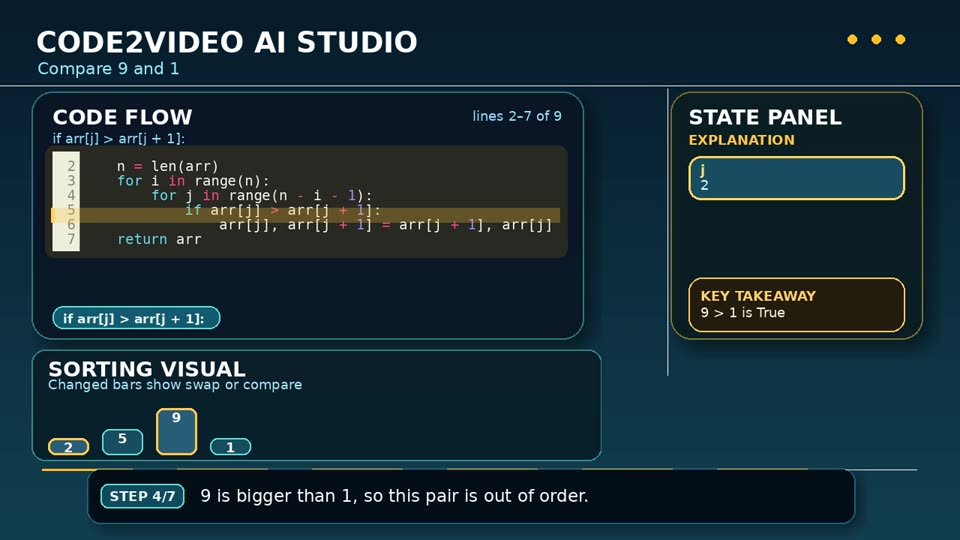
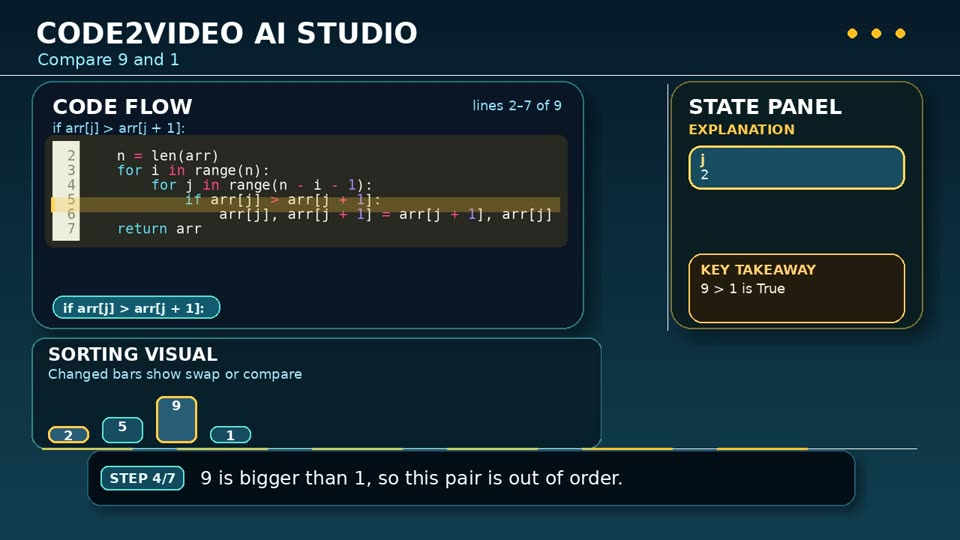
Production-grade video: fixed visuals, takeaways, bigger code, safer subtitles

diff --git a/code2video-ai-studio-main/app.py b/code2video-ai-studio-main/app.py
@@ -711,6 +711,7 @@ def _load_font(size=24, bold=False, language="english"):
 
     return ImageFont.load_default()
 
+FONT_PT = _load_font(24, bold=True)
 FONT_XL = _load_font(38, bold=True)
 FONT_LG = _load_font(28, bold=True)
 FONT_MD = _load_font(22, bold=False)
@@ -1113,6 +1114,25 @@ def _extract_menu_lines_from_code(full_code):
     return cleaned[:4]
 
 
+def _has_recursion(code):
+    """True only if a function really calls itself (a call from outside its body does not count)."""
+    code = str(code or "")
+    try:
+        tree = ast.parse(code)
+    except Exception:
+        tree = None
+    if tree is not None:
+        for fn in ast.walk(tree):
+            if isinstance(fn, (ast.FunctionDef, ast.AsyncFunctionDef)):
+                for node in ast.walk(fn):
+                    if isinstance(node, ast.Call):
+                        f = node.func
+                        if (isinstance(f, ast.Name) and f.id == fn.name) or (isinstance(f, ast.Attribute) and f.attr == fn.name and isinstance(f.value, ast.Name) and f.value.id == "self"):
+                            return True
+        return False
+    return False
+
+
 def _detect_algorithm(full_code, scene_type, variables):
     code_lower = str(full_code or "").lower()
     scene_lower = str(scene_type or "").lower()
@@ -1136,13 +1156,8 @@ def _detect_algorithm(full_code, scene_type, variables):
     if "stack" in code_lower or "stack" in scene_lower:
         return "stack"
 
-    fn_names = re.findall(r"def\s+([a-zA-Z_]\w*)\s*\(", code_lower)
-    for fn in fn_names:
-        start = code_lower.find(f"def {fn}")
-        if start != -1:
-            body = code_lower[start:].replace(f"def {fn}", "", 1)
-            if re.search(rf"\b{re.escape(fn)}\s*\(", body):
-                return "recursion"
+    if _has_recursion(full_code):
+        return "recursion"
 
     if "for " in code_lower or "while " in code_lower or "loop" in scene_lower:
         return "loop"
@@ -1363,21 +1378,23 @@ def _build_background(scene_title, output_path):
     img = _create_gradient_background(VIDEO_W, VIDEO_H)
     draw = ImageDraw.Draw(img)
 
-    draw.text((48, 34), "CODE2VIDEO AI STUDIO", font=FONT_XL, fill=(255, 255, 255))
-    draw.text((50, 78), scene_title[:48], font=FONT_MD, fill=(153, 238, 255))
+    draw.text((48, 22), "CODE2VIDEO AI STUDIO", font=FONT_XL, fill=(255, 255, 255))
+    draw.text((50, 66), scene_title[:48], font=FONT_MD, fill=(153, 238, 255))
 
-    draw.line((0, 114, VIDEO_W, 114), fill=(255, 255, 255, 35), width=1)
-    draw.line((890, 118, 890, 500), fill=(255, 255, 255, 24), width=1)
-    draw.line((58, 626, 1222, 626), fill=(255, 255, 255, 18), width=1)
+    draw.line((0, 100, VIDEO_W, 100), fill=(255, 255, 255, 35), width=1)
+    draw.line((890, 112, 890, 440), fill=(255, 255, 255, 24), width=1)
+    draw.line((58, 598, 1222, 598), fill=(255, 255, 255, 18), width=1)
 
     for x in [VIDEO_W - 150, VIDEO_W - 118, VIDEO_W - 86]:
-        draw.ellipse((x, 46, x + 12, 58), fill=(255, 191, 36))
+        draw.ellipse((x, 38, x + 12, 50), fill=(255, 191, 36))
 
     for i in range(6):
-        draw.line((56 + i * 180, 626, 56 + i * 180 + 120, 626), fill=(255, 191, 36), width=3)
+        draw.line((56 + i * 180, 598, 56 + i * 180 + 120, 598), fill=(255, 191, 36), width=3)
 
     img.save(output_path)
 
+
+POS_CODE, POS_VARS, POS_CONCEPT, POS_SUB = (42, 108), (894, 108), (42, 450), (116, 600)
 
 _CODE_METRICS = {}
 
@@ -1444,9 +1461,16 @@ def _build_code_overlay(full_code, active_line, focus_text, output_path):
     draw.text((28, 18), "CODE FLOW", font=FONT_LG, fill=(255, 255, 255))
     draw.text((28, 52), short_focus, font=FONT_SM, fill=(150, 226, 255))
 
-    font_size = 23
-    step, pad = _code_metrics(font_size)
     max_w, area_h = 676, 196
+    longest = max((len(l.expandtabs(4)) for l in all_lines), default=1)
+    want = min(total, 6)
+    font_size = 23
+    for fs in (31, 28, 26, 24):
+        st, pd = _code_metrics(fs)
+        if want * st + 2 * pd <= area_h and (longest + 5) * fs * 0.6 <= max_w:
+            font_size = fs
+            break
+    step, pad = _code_metrics(font_size)
     max_lines = max(4, min(8, (area_h - 2 * pad) // step))
 
     # show a window of lines around the active line instead of shrinking the whole program
@@ -1492,7 +1516,32 @@ def _build_code_overlay(full_code, active_line, focus_text, output_path):
     panel.save(output_path)
 
 
-def _build_vars_overlay(variables, scene_type, output_text, changed_keys, output_path):
+_GENERIC_TAKEAWAYS = {"", "none", "null", "program state updated.", "program state updated", "the program continues logically.",
+                      "the program continues logically", "program continues", "continues", "no output", "program produced output."}
+
+
+def _make_takeaway(output_text, focus_text, variables, changed_keys):
+    """A short, specific one-liner for the KEY TAKEAWAY box (never a vague filler sentence)."""
+    text = " ".join(str(output_text or "").split())
+    if text.lower() not in _GENERIC_TAKEAWAYS:
+        return text
+    focus = " ".join(str(focus_text or "").split())
+    m = re.match(r"def\s+(\w+)\s*\(([^)]*)\)", focus)
+    if m:
+        params = ", ".join(p.strip() for p in m.group(2).split(",") if p.strip())
+        return f"Defines {m.group(1)}({params}); it runs only when called"
+    m = re.match(r"class\s+(\w+)", focus)
+    if m:
+        return f"Defines the class {m.group(1)}"
+    items = [(k, v) for k, v in variables.items() if k in changed_keys and not _is_emptyish(v)][:2]
+    if items:
+        return ", ".join(f"{k} = {_safe_repr(v, 14)}" for k, v in items)
+    if focus:
+        return _short_focus_label(focus)
+    return "Moving on to the next step"
+
+
+def _build_vars_overlay(variables, scene_type, output_text, changed_keys, output_path, focus_text=""):
     panel = Image.new("RGBA", (360, 355), (0, 0, 0, 0))
     draw = ImageDraw.Draw(panel)
 
@@ -1540,17 +1589,20 @@ def _build_vars_overlay(variables, scene_type, output_text, changed_keys, output
             draw.text((40, y + 28 + idx * 15), line, font=FONT_VAR, fill=(236, 255, 255))
         y += 66
 
-    takeaway = output_text if str(output_text).strip().lower() not in {"", "none", "null"} else "Program state updated."
+    takeaway = _make_takeaway(output_text, focus_text, variables, changed_keys)
 
     if "found" in str(output_text).lower():
         result_idx = _extract_result_value(variables, output_text, "")
         takeaway = f"Target found at index {result_idx}" if result_idx is not None else "Target found successfully"
 
-    _rounded_box(draw, (24, 248, 312, 320), fill=(36, 25, 8, 230), outline=(255, 199, 90), width=2, radius=18)
-    draw.text((40, 262), "KEY TAKEAWAY", font=FONT_BADGE, fill=(255, 208, 112))
-    out_lines = _wrap_text(takeaway, FONT_SM, 240, draw)
-    for idx, line in enumerate(out_lines[:2]):
-        draw.text((40, 284 + idx * 16), line, font=FONT_SM, fill=(255, 246, 225))
+    _rounded_box(draw, (24, 230, 312, 322), fill=(36, 25, 8, 230), outline=(255, 199, 90), width=2, radius=18)
+    draw.text((40, 241), "KEY TAKEAWAY", font=FONT_BADGE, fill=(255, 208, 112))
+    out_lines = _wrap_text(takeaway, FONT_SM, 250, draw)
+    if len(out_lines) > 3:
+        out_lines = out_lines[:3]
+        out_lines[2] = out_lines[2].rstrip(".,;: ") + "\u2026"
+    for idx, line in enumerate(out_lines):
+        draw.text((40, 266 + idx * 19), line, font=FONT_SM, fill=(255, 246, 225))
 
     panel.save(output_path)
 
@@ -1599,9 +1651,9 @@ def _wrap_mixed(text, indic_font, latin_font, max_width, draw):
 def _build_subtitle_overlay(narration, step_no, total_steps, output_path, language="english"):
     simple = _simplify_subtitle(narration)
 
-    subtitle_font = _load_font(23, bold=False, language=language)
+    subtitle_font = _load_font(24, bold=False, language=language)
     badge_font = _load_font(18, bold=True, language="english")
-    latin_font = _load_font(23, bold=False, language="english")
+    latin_font = _load_font(24, bold=False, language="english")
 
     panel = Image.new("RGBA", (1040, 92), (0, 0, 0, 0))
     draw = ImageDraw.Draw(panel)
@@ -1627,7 +1679,7 @@ def _build_subtitle_overlay(narration, step_no, total_steps, output_path, langua
     if len(lines) > 2:
         lines = lines[:2]
         lines[1] = lines[1].rstrip(".,;: ") + "\u2026"
-    line_h = 30
+    line_h = 31
     top = (box_h - line_h * len(lines)) // 2 + 1
     for idx, line in enumerate(lines):
         _draw_mixed(draw, (text_x, top + idx * line_h), line, subtitle_font, latin_font, (255, 255, 255))
@@ -1692,8 +1744,8 @@ def _panel_base(title, subtitle, height=156):
     panel = Image.new("RGBA", (760, height), (0, 0, 0, 0))
     draw = ImageDraw.Draw(panel)
     _rounded_box(draw, (0, 0, 760, height - 8), fill=(8, 27, 38, 220), outline=(94, 224, 213, 120), width=2, radius=18)
-    draw.text((22, 10), title, font=FONT_LG, fill=(255, 255, 255))
-    draw.text((22, 36), subtitle, font=FONT_SM, fill=(173, 235, 255))
+    draw.text((22, 8), title, font=FONT_PT, fill=(255, 255, 255))
+    draw.text((22, 38), subtitle, font=FONT_SM, fill=(173, 235, 255))
     return panel, draw
 
 
@@ -1767,35 +1819,36 @@ def _build_loop_progress_overlay(payload, output_path):
 
 
 def _build_print_output_overlay(payload, output_path):
-    panel, draw = _panel_base("OUTPUT CONSOLE", "Program output is shown clearly", height=118)
+    panel, draw = _panel_base("OUTPUT CONSOLE", "What the program prints", height=124)
 
-    _rounded_box(draw, (24, 48, 736, 102), fill=(7, 14, 20, 235), outline=(94, 224, 213), width=2, radius=12)
+    _rounded_box(draw, (24, 62, 736, 112), fill=(7, 14, 20, 235), outline=(94, 224, 213), width=2, radius=12)
     console_text = _safe_repr(payload.get("text", "Program produced output."), 100)
 
     lines = _wrap_text(console_text, FONT_MD, 650, draw)
+    y0 = 74 if len(lines) == 1 else 66
     for idx, line in enumerate(lines[:2]):
-        draw.text((42, 60 + idx * 22), line, font=FONT_MD, fill=(210, 245, 210))
+        draw.text((42, y0 + idx * 22), line, font=FONT_MD, fill=(210, 245, 210))
 
     panel.save(output_path)
 
 
 def _build_waiting_input_overlay(payload, output_path):
-    panel, draw = _panel_base("WAITING FOR INPUT", "Program is waiting for the next user action", height=118)
+    panel, draw = _panel_base("WAITING FOR INPUT", "Program is waiting for the next user action", height=124)
 
     label = payload.get("label", "Waiting for input")
     menu_lines = payload.get("menu_lines", [])[:3]
 
-    _rounded_box(draw, (24, 48, 280, 102), fill=(42, 94, 120, 250), outline=(255, 201, 74), width=3, radius=12)
+    _rounded_box(draw, (24, 62, 280, 112), fill=(42, 94, 120, 250), outline=(255, 201, 74), width=3, radius=12)
     lines = _wrap_text(label, FONT_MD, 210, draw)
     for idx, line in enumerate(lines[:2]):
-        draw.text((40, 60 + idx * 20), line, font=FONT_MD, fill=(255, 255, 255))
+        draw.text((40, 68 + idx * 20), line, font=FONT_MD, fill=(255, 255, 255))
 
     if menu_lines:
         left = 300
-        top = 48
-        _rounded_box(draw, (left, top, 736, 102), fill=(7, 14, 20, 235), outline=(94, 224, 213), width=2, radius=12)
+        top = 62
+        _rounded_box(draw, (left, top, 736, 112), fill=(7, 14, 20, 235), outline=(94, 224, 213), width=2, radius=12)
         for i, line in enumerate(menu_lines[:2]):
-            draw.text((left + 14, top + 8 + i * 20), line[:48], font=FONT_TINY, fill=(210, 245, 210))
+            draw.text((left + 14, top + 6 + i * 20), line[:48], font=FONT_TINY, fill=(210, 245, 210))
 
     panel.save(output_path)
 
@@ -1817,11 +1870,11 @@ def _build_function_call_overlay(payload, output_path):
     panel, draw = _panel_base("FUNCTION CALL", "Execution is entering a function")
     name = payload.get("name", "function")
 
-    _rounded_box(draw, (60, 56, 250, 94), fill=(42, 94, 120, 250), outline=(255, 201, 74), width=3, radius=12)
-    draw.text((86, 68), name[:20], font=FONT_BADGE, fill=(255, 255, 255))
-    draw.line((250, 74, 370, 74), fill=(255, 201, 74), width=3)
-    draw.polygon([(370, 74), (360, 68), (360, 80)], fill=(255, 201, 74))
-    draw.text((392, 64), "entering body", font=FONT_BADGE, fill=(255, 227, 128))
+    _rounded_box(draw, (40, 66, 290, 108), fill=(42, 94, 120, 250), outline=(255, 201, 74), width=3, radius=12)
+    draw.text((58, 76), name[:22], font=FONT_BADGE, fill=(255, 255, 255))
+    draw.line((290, 87, 400, 87), fill=(255, 201, 74), width=3)
+    draw.polygon([(412, 87), (400, 80), (400, 94)], fill=(255, 201, 74))
+    draw.text((428, 77), "entering body", font=FONT_BADGE, fill=(255, 227, 128))
 
     panel.save(output_path)
 
@@ -2203,6 +2256,10 @@ def _fallback_visual_plan(full_code, scene_type, focus_text, output_text, narrat
     if algorithm == "recursion":
         return {"visual_type": "special_recursion", "payload": {}}
 
+    m_def = re.match(r"\s*def\s+(\w+)\s*\(([^)]*)\)", str(focus_text or ""))
+    if m_def:
+        return {"visual_type": "function_def", "payload": {"name": m_def.group(1), "params": [p.strip().split("=")[0].strip() for p in m_def.group(2).split(",") if p.strip()]}}
+
     if _looks_like_return_scene(focus_text, narration, output_text):
         return {
             "visual_type": "function_return",
@@ -2241,8 +2298,51 @@ def _fallback_visual_plan(full_code, scene_type, focus_text, output_text, narrat
     return {"visual_type": "generic_data", "payload": generic_payload}
 
 
+def _visual_fits(visual_type, full_code, variables):
+    """Stop the AI from picking an algorithm visual (e.g. recursion tree) for code that isn't that algorithm."""
+    code = str(full_code or "")
+    low = code.lower()
+    keys = {str(k).lower() for k in (variables or {}).keys()}
+    if visual_type == "special_recursion":
+        return _has_recursion(code)
+    if visual_type == "special_binary_search":
+        return "binary" in low or {"low", "high", "mid"} <= keys or {"left", "right", "mid"} <= keys
+    if visual_type == "special_sorting":
+        return any(w in low for w in ("sort", "swap", "bubble", "insertion", "selection")) or bool(re.search(r"(\w+)\[[^\]]+\]\s*,\s*\1\[[^\]]+\]\s*=", code))
+    if visual_type == "special_stack":
+        return "stack" in low or (".pop(" in low and ".append(" in low)
+    if visual_type == "special_linked_list":
+        return ".next" in low or "class node" in low
+    return True
+
+
+def _build_function_def_overlay(payload, output_path):
+    panel, draw = _panel_base("FUNCTION DEFINED", "Saved now, runs only when called")
+    name = str(payload.get("name", "function"))[:20]
+    params = [p for p in payload.get("params", []) if p][:4]
+    x = 24
+    _rounded_box(draw, (x, 64, x + 170, 108), fill=(42, 94, 120, 250), outline=(255, 201, 74), width=3, radius=12)
+    draw.text((x + 14, 74), f"{name}()", font=FONT_BADGE, fill=(255, 255, 255))
+    draw.line((x + 172, 86, x + 214, 86), fill=(255, 191, 36), width=3)
+    draw.polygon([(x + 214, 79), (x + 214, 93), (x + 226, 86)], fill=(255, 191, 36))
+    px = x + 240
+    if not params:
+        draw.text((px, 74), "takes no inputs", font=FONT_SM, fill=(218, 240, 247))
+    for p in params:
+        w = max(70, int(draw.textlength(p, font=FONT_BADGE)) + 36)
+        _rounded_box(draw, (px, 64, px + w, 108), fill=(24, 78, 99, 240), outline=(94, 224, 213), width=2, radius=12)
+        draw.text((px + 18, 74), p[:12], font=FONT_BADGE, fill=(255, 255, 255))
+        px += w + 12
+    draw.text((24, 118), "parameters are the inputs it will receive", font=FONT_SM, fill=(150, 226, 255))
+    panel.save(output_path)
+
+
 def _build_visual_overlay(visual_type, payload, full_code, curr_vars, prev_vars, output_text, narration, output_path):
     if visual_type == "print_output":
+        payload = dict(payload or {})
+        if str(payload.get("text", "")).strip().lower() in _GENERIC_TAKEAWAYS:
+            generic = str(output_text or "").strip().lower() in _GENERIC_TAKEAWAYS
+            payload["text"] = _extract_print_text(curr_vars, "" if generic else output_text, narration, "", full_code)
         _build_print_output_overlay(payload, output_path)
     elif visual_type == "waiting_input":
         _build_waiting_input_overlay(payload, output_path)
@@ -2260,6 +2360,8 @@ def _build_visual_overlay(visual_type, payload, full_code, curr_vars, prev_vars,
         _build_function_call_overlay(payload, output_path)
     elif visual_type == "conditional_branch":
         _build_conditional_branch_overlay(payload, output_path)
+    elif visual_type == "function_def":
+        _build_function_def_overlay(payload, output_path)
     elif visual_type == "special_binary_search":
         _build_binary_search_overlay(curr_vars, prev_vars, full_code, output_text, narration, output_path)
     elif visual_type == "special_sorting":
@@ -2369,19 +2471,19 @@ def _make_step_clip(
     bg_clip = bg_clip.with_effects([vfx.Resize(lambda t: 1 + 0.006 * t)])
 
     code_clip = ImageClip(code_path).with_duration(safe_duration)
-    code_clip = code_clip.with_position((42, 122))
+    code_clip = code_clip.with_position(POS_CODE)
 
     vars_clip = ImageClip(vars_path).with_duration(safe_duration)
-    vars_clip = vars_clip.with_position((894, 122))
+    vars_clip = vars_clip.with_position(POS_VARS)
 
     layout = _choose_layout(scene_title, visual_type, output_text, narration)
 
     concept_clip = ImageClip(concept_path).with_duration(safe_duration)
     subtitle_clip = ImageClip(subtitle_path).with_duration(safe_duration)
 
-    concept_clip = concept_clip.with_position((42, 466))
+    concept_clip = concept_clip.with_position(POS_CONCEPT)
 
-    subtitle_clip = subtitle_clip.with_position((116, 624))
+    subtitle_clip = subtitle_clip.with_position(POS_SUB)
 
     audio_clip = AudioFileClip(audio_path).subclipped(0, safe_duration)
 
@@ -2433,10 +2535,10 @@ def _render_step_fast(bg_path, code_path, vars_path, subtitle_path, concept_path
         canvas.alpha_composite(img, dest=(int(pos[0]), int(pos[1])))
 
     layout = _choose_layout(scene_title, visual_type, output_text, narration)
-    _layer(code_path, (42, 122))
-    _layer(vars_path, (894, 122))
-    _layer(concept_path, (42, 466))
-    _layer(subtitle_path, (116, 624))
+    _layer(code_path, POS_CODE)
+    _layer(vars_path, POS_VARS)
+    _layer(concept_path, POS_CONCEPT)
+    _layer(subtitle_path, POS_SUB)
 
     frame_path = out_path.replace(".mp4", ".png")
     canvas.convert("RGB").crop((0, 0, VIDEO_W, VIDEO_H)).save(frame_path)
@@ -2596,6 +2698,13 @@ Python code:
 
             changed_keys = _diff_variables(previous_vars, variables)
 
+            if ai_visual_type and ai_visual_type.lower() != "auto":
+                _vt = {"search_window": "special_binary_search", "swap_operation": "special_sorting", "linked_structure": "special_linked_list"}.get(ai_visual_type, ai_visual_type)
+                if _vt.startswith("special_") and not _visual_fits(_vt, code, variables):
+                    ai_visual_type = "auto"
+                elif re.match(r"\s*def\s", str(focus_text or "")) and _vt not in {"special_recursion"}:
+                    ai_visual_type = "auto"
+
             if not ai_visual_type or ai_visual_type.lower() == "auto":
                 plan = _fallback_visual_plan(
                     code,
@@ -2642,7 +2751,12 @@ Python code:
 
             _build_background(scene_title, bg_p)
             _build_code_overlay(code, _resolve_active_line(code, line_index, focus_text), focus_text, code_p)
-            _build_vars_overlay(variables, scene_type, output_text, changed_keys, vars_p)
+            _build_vars_overlay(variables, scene_type, output_text, changed_keys, vars_p, focus_text=focus_text)
+            if visual_type == "function_call" and not (payload or {}).get("name"):
+                m_call = re.search(r"(\w+)\s*\(([^)]*)\)", str(focus_text or ""))
+                if m_call and m_call.group(1) not in {"print", "input", "len", "range"}:
+                    payload = dict(payload or {})
+                    payload["name"] = f"{m_call.group(1)}({m_call.group(2)})"
             _build_visual_overlay(
                 visual_type,
                 payload,
